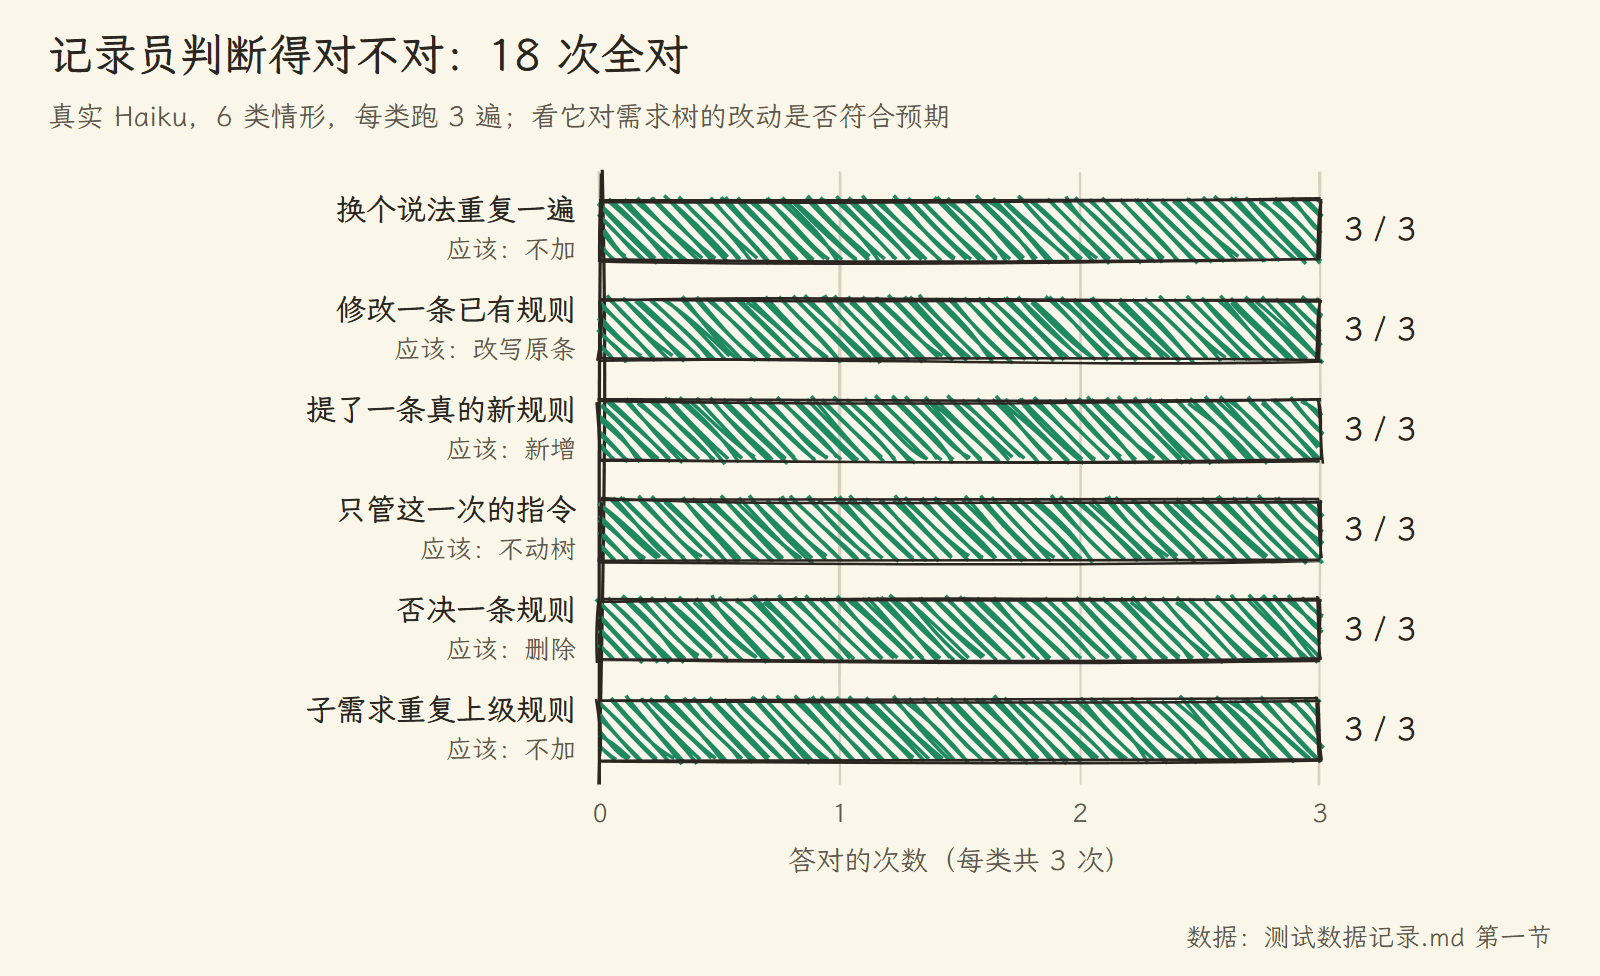
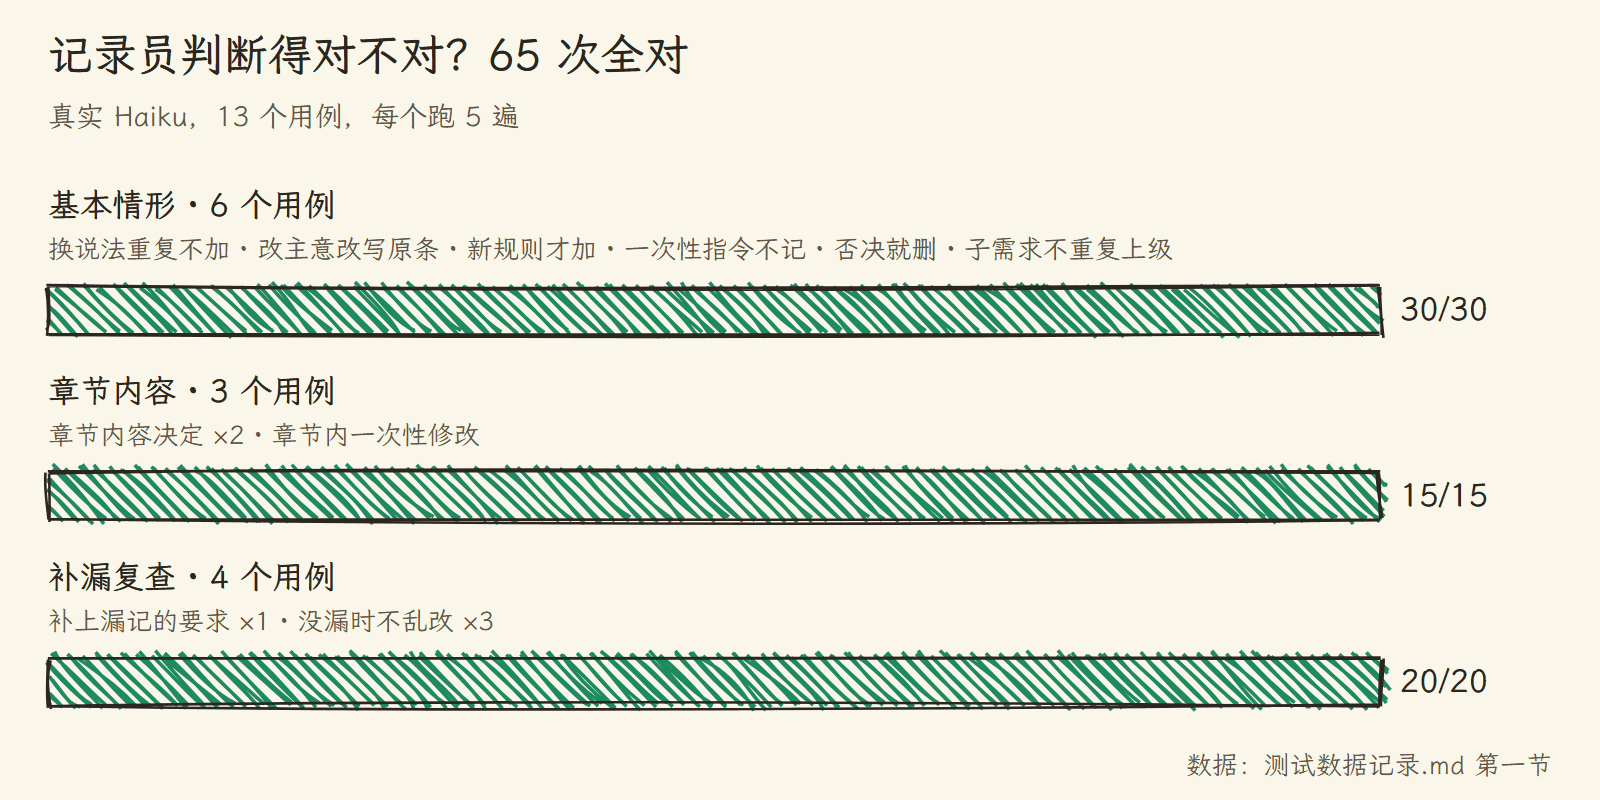
README 测试数据一节重写：每个实验回答一个问题，先讲结果说明什么；加入真实数据实验（搬进需求树前后、回放真实对话）的图表

Changed region(s): [[0.0, 0.1875, 0.9375, 0.9062], [0.0312, 0.0312, 0.5938, 0.1562], [0.7188, 0.9375, 0.9688, 0.9688]]

diff --git a/README.en.md b/README.en.md
@@ -109,7 +109,7 @@ Everything revolves around one file. While you chat, a background recorder write
 
 ![The recorder notes long-term requirements in the background](docs/images/en/recorder.png)
 
-**Why not inject rules with hooks?** Early versions did. Claude Code's native rules turned out to be more reliable: they work inside subagents and after compaction, and rules created or edited mid-session are pushed to the assistant. So the hooks now only do what the native mechanism can't — track which requirement is being edited and start the recorder. They add nothing to the assistant's context.
+**Why not inject rules with hooks?** Early versions did. Claude Code's native rules turned out to be more reliable: they work inside subagents and after compaction, and rules created or edited mid-session are pushed to the assistant. So rules are left to the native mechanism, and the hooks only do what it can't — track which requirement is being edited and start the recorder. The one exception is discussion before any file is touched: when you ask "how should Chapter 3 work?", the assistant hasn't opened a file yet, so the hook adds the rules of the requirement you named, once per session.
 
 | Part | What it does |
 |---|---|
@@ -125,35 +125,59 @@ Everything revolves around one file. While you chat, a background recorder write
 | Feature | Status |
 |---|---|
 | Rules load on demand: they enter the context when the AI reads or edits a matching file | ✅ |
-| Hooks add nothing to the conversation | ✅ |
+| Hooks add rules only when you name a requirement whose files the assistant hasn't touched yet; otherwise nothing | ✅ |
 | Old rules are rewritten instead of duplicated, so the tree doesn't keep growing | ✅ |
 | The recorder uses the inexpensive Haiku model in the background; short replies skip it | ✅ |
 | Context meter: which rules each session loaded, how many characters each, resident vs on demand | ✅ |
 | Split CLAUDE.md: move requirement-specific content into the tree so it loads on demand | Planned |
 | Cross-file duplicate and contradiction check between the tree, CLAUDE.md and project docs | Planned (experiment script exists) |
 
-![Characters always in context](docs/images/en/chart-context.png)
+In practice, the AI reads 30–50% fewer characters of rules to work on one chapter of a course — see "How much better after moving them into a tree?" below.
 
 ## Test data
 
-Raw data and experiment conditions are in [`测试数据记录.md`](测试数据记录.md) (the test log, in Chinese).
+Each experiment below answers one question. Raw data and experiment conditions are in [`测试数据记录.md`](测试数据记录.md) (the test log, in Chinese).
 
-**Does the recorder judge correctly?** Six kinds of situations, three runs each, with the real Haiku model: a reworded duplicate is not added, a change of mind rewrites the original rule, a genuinely new rule is added, a one-off instruction is ignored, a rejected rule is deleted, and a child repeating its parent is not added. 18 out of 18 correct.
+### Does the recorder get things wrong or add duplicates?
+
+The recorder mostly meets six situations: you restate an old rule in new words; you change your mind; you give a new rule; you ask for a one-off edit; you reject a rule; you repeat a parent's rule inside a child requirement. Two easily confused ones were added later: "open Chapter 1 with the cholera story" is a decision Chapter 1 should keep following, while "tighten that paragraph in Chapter 1" is done once it's done. Run five times each with the real Haiku model, the recorder handled every case correctly: no duplicates, changes of mind rewrite the original rule, one-off edits are not recorded.
 
 ![Recorder accuracy](docs/images/en/chart-recorder.png)
 
-**With or without ReqTree — do rules get messier?** A simulated 32-turn conversation in which the user gradually states 13 long-term requirements, changes their mind, cancels some and adds exceptions. Three arms: the assistant maintaining its own rule document (plain prompt, careful prompt) and the ReqTree recorder. When the assistant kept its own document, a cancelled rule turned into a new "don't …" entry that stayed behind, and some rules landed in the wrong scope; ReqTree had neither problem. All three arms missed some requirements.
+### Compared with letting the AI maintain its own rule document?
+
+A simulated 32-turn conversation: the user gradually states 13 long-term requirements, changes their mind, cancels some, adds exceptions. One arm lets the AI keep its own rule document; the other uses ReqTree. When the AI keeps the document, "drop the reflection questions" often becomes a new line "no reflection questions" while the old rule stays, and an exception like "only 3 exercises in Chapter 2" sometimes turns into a global rule. ReqTree deletes the cancelled rule and files the exception under Chapter 2. At first ReqTree also missed decisions about a single chapter's content; after the recorder's criteria were fixed, it captured almost all 13 requirements.
 
 ![Rule problems after a simulated conversation](docs/images/en/chart-confusion.png)
 
-**How messy is a real project?** In a real course project's 21 rule documents, most problems sit **across files**: the same rule copied in several places, updated in one and stale in the others. With ReqTree each rule has exactly one place, which removes this class of problem at the root.
+### How messy are real rule documents?
+
+The author audited a course project after a few months of work. Across 21 rule documents the problems sit mostly **across files**: the same rule copied in several places, updated in one and stale in the others; one file says "run one agent at a time", another says "two or three chapters can run in parallel".
 
 ![Audit of real rule documents](docs/images/en/chart-audit.png)
+
+### How much better after moving them into a tree?
+
+The rules from those 21 documents were moved into one requirement tree and audited again with the same checker. Duplicates and outdated rules dropped sharply, because each rule now has one place and old wording was replaced by the latest during the move. Contradictions did not drop: where a course rule conflicts with a global one, the original text never said "this course is an exception", so the move couldn't turn it into an override. That call still needs a person.
+
+![Before and after moving the rules into a tree](docs/images/en/chart-migrate.png)
+
+The context savings are easier to see. Before, every session carried CLAUDE.md and the memory, and working on a course meant reading that course's whole rule document. With the tree, only the global rules are always loaded; a course's rules arrive when its files are touched. To work on one chapter of any course, the AI reads 30–50% fewer characters of rules.
+
+![How much the AI reads to work on one chapter](docs/images/en/chart-chapter.png)
+
+### Replaying real conversations
+
+436 messages the author actually typed across 12 sessions over several weeks were replayed in order. One arm let the AI record rules as it normally would, into CLAUDE.md, memory and course documents (seeing only some of them each time); the other used ReqTree. Both were checked against the same answer key.
+
+ReqTree missed fewer requirements, kept fewer overturned rules, and ended with a rule base a third the size. Its extra errors were of one kind: general preferences mentioned while working on one course, such as "reply in Chinese", got filed under that course, so other courses didn't get them. The recorder's criteria have since been adjusted for this.
+
+![The rule base after replaying real conversations](docs/images/en/chart-replay.png)
 
 ## Current limits
 
 - Works with Claude Code and OpenAI Codex. Codex has no path-scoped rules, so ReqTree uses an index in `AGENTS.md` plus hooks that deliver the right rules (see docs/codex.md).
-- The recorder sometimes misses things, especially decisions about a single chapter's content ("open Chapter 1 with this story"). You can add those by hand in the panel.
+- The recorder relies on a small model and occasionally files a rule in the wrong place. You can fix it in the panel, or undo it under "Recent changes".
 - Each turn costs one extra Haiku call, run in the background (about 6 seconds).
 - Developed on Windows; macOS and Linux are covered by CI.
 

diff --git a/README.md b/README.md
@@ -109,7 +109,7 @@ npx github:penstic123-code/Vibe-Friend init <你的项目目录> --tool codex # 
 
 ![记录员在后台记下长期要求](docs/images/recorder.png)
 
-**为什么不用 hook 往对话里塞规则。** 早期版本就是这么做的。后来发现 Claude Code 原生的规则机制更可靠：子 agent 里、上下文压缩以后都照样生效，会话中途新建或修改规则也会推给 AI。所以 hook 现在只做原生没有的事：记下 AI 在改哪个需求、启动记录员，不往 AI 的上下文里加一个字。
+**为什么不用 hook 往对话里塞规则。** 早期版本就是这么做的。后来发现 Claude Code 原生的规则机制更可靠：子 agent 里、上下文压缩以后都照样生效，会话中途新建或修改规则也会推给 AI。所以规则主要交给原生机制，hook 只做原生没有的事：记下 AI 在改哪个需求、启动记录员。唯一的例外是动手之前的讨论：你说「第 3 章怎么设计」时 AI 还没打开文件，原生规则还没加载，hook 就把你点名的那个需求的规则补上，每个会话只补一次。
 
 | 部件 | 做什么 |
 |---|---|
@@ -125,35 +125,59 @@ npx github:penstic123-code/Vibe-Friend init <你的项目目录> --tool codex # 
 | 功能 | 状态 |
 |---|---|
 | 规则按需加载：AI 读或改到对应文件时，规则才进入上下文 | ✅ |
-| hook 不往对话里加内容 | ✅ |
+| hook 只在你点名某个需求、而 AI 还没碰它的文件时补一次规则，别的时候不往对话里加内容 | ✅ |
 | 改写旧规则而不是新增，树不会越堆越长 | ✅ |
 | 记录员用便宜的 Haiku，在后台跑；短回复不调用模型 | ✅ |
 | 上下文用量表：每个会话加载了哪些规则、各多少字、哪些常驻哪些按需 | ✅ |
 | 从 CLAUDE.md 拆分：把只属于某个需求的内容搬进树里按需加载 | 计划中 |
 | 跨文件查重查矛盾：需求树和 CLAUDE.md、项目文档之间 | 计划中（已有实验脚本） |
 
-![常驻上下文字数](docs/images/chart-context.png)
+实测下来，做一门课的一章，AI 要读的规则少了三到五成，见下面的「搬进需求树以后，会好多少」。
 
 ## 测试数据
 
-原始数据和实验条件都在 [`测试数据记录.md`](测试数据记录.md)。
+下面每个实验回答一个问题。原始数据和实验条件都在 [`测试数据记录.md`](测试数据记录.md)。
 
-**记录员判断得准不准。** 6 类情况各跑 3 遍，用真实的 Haiku：换说法重复的不加、改主意的改写原条、真正的新规则才加、一次性指令不记、否决的删掉、子需求重复上级的不加。18 次全对。
+### 记录员会不会记错、记重复？
+
+记录员最常碰到六种情况：你换个说法重复一条旧规则；你改了主意；你提了一条新规则；你只是让 AI 改一处；你否决了一条规则；你在子需求里又说了一遍上级的规则。后来又加了两种容易混的：「第 1 章开头用霍乱的故事」是这一章长期要遵守的决定，「把第 1 章那段压缩一下」是改完就结束的一次性指令。用真实的 Haiku 把这些情况各跑 5 遍，记录员每次都做对了：重复的不加，改主意的改写原条，一次性的不记。
 
 ![记录员判断准确率](docs/images/chart-recorder.png)
 
-**装与不装，规则会不会更乱。** 模拟 32 轮对话，用户陆续提 13 条长期要求，中途改主意、取消、加例外。三组对比：AI 自己维护规则文档（普通提示词、认真提示词）和需求树的记录员。AI 自己记时，取消的规则会变成一条新的"不要……"留在文档里，有的规则挂到了错误的范围；需求树没有这两种问题。三组都有漏记。
+### 和让 AI 自己维护规则文档相比呢？
+
+模拟一段 32 轮的对话：用户陆续提 13 条长期要求，中途改主意、取消、加例外。一组让 AI 自己维护一份规则文档，一组交给需求树。AI 自己记的时候，你说「思考题取消吧」，它往往再写一条「不设思考题」，旧的那条还留着；「第 2 章只出 3 道题」这种例外，有时被它写成了全局规则。需求树直接删掉被取消的那条，例外挂在第 2 章下面。最初需求树也会漏记某一章的内容决定，改了记录员的判断标准后，13 条要求基本都记下了。
 
 ![模拟对话后的规则毛病](docs/images/chart-confusion.png)
 
-**真实项目里有多乱。** 体检一个真实课程项目的 21 份规则文档，问题集中在**跨文件**这一层：同一条规则抄在好几处，改了一处，别处还是旧的。需求树让每条规则只有一个位置，从根上避开这类问题。
+### 真实项目里的规则文档有多乱？
+
+作者体检了自己做了几个月的课程项目：21 份规则文档里，问题集中在**跨文件**这一层。同一条规则抄在好几处，改了一处，别处还是旧的；有的地方写「一次只开一个 agent」，另一处写「可以两三章并行」。
 
 ![真实规则文档体检](docs/images/chart-audit.png)
+
+### 搬进需求树以后，会好多少？
+
+把这 21 份文档里的规则搬进一棵需求树，再用同一个体检程序查一遍。重复和过时少了一大截，因为同一条规则只剩一个位置，旧说法在搬家时就被新说法替掉了。矛盾没有变少：课程规则和全局规则冲突时，原文没写明「这门课例外」，搬家也就没法把它变成覆盖。这一步还得人来定。
+
+![规则搬进需求树前后](docs/images/chart-migrate.png)
+
+省下的上下文更直观。原来每个会话都要带上 CLAUDE.md 和记忆，做某门课时还要整份读那门课的规则文档；搬进需求树以后，常驻的只剩全局规则，课程规则在改到那门课的文件时才加载。做任意一门课的一章，AI 要读的规则少了三到五成。
+
+![做某门课的一章，AI 要读多少字](docs/images/chart-chapter.png)
+
+### 拿真实对话回放一遍呢？
+
+把作者过去几周 12 个会话里亲手打的 436 条消息按时间顺序回放：一组让 AI 像平时一样自己记进 CLAUDE.md、记忆和课程文档（每次只看得到其中几份），一组交给需求树。最后拿同一份标准答案对照。
+
+需求树漏得少，被推翻的旧规则留得少，整个规则库只有另一组的三分之一大。它多出来的错误集中在一类：你在做某门课时顺口说的通用要求，比如「交流用中文」，被记到了那门课下面，做别的课时就带不上。记录员已经针对这一点改了判断标准。
+
+![回放真实对话后的规则库](docs/images/chart-replay.png)
 
 ## 目前的限制
 
 - 支持 Claude Code 和 OpenAI Codex。Codex 没有按文件加载规则的机制，改用 `AGENTS.md` 里的索引加 hook 补送，见 [docs/codex.md](docs/codex.md)。
-- 记录员会漏记，尤其是"第 1 章开头用某个故事"这类只关于一章的内容决定。漏了可以在面板上手动加。
+- 记录员靠小模型判断，偶尔会把规则挂错位置。面板上能直接改，「最近改动」里能撤销。
 - 每轮对话多一次 Haiku 调用，在后台跑，约 6 秒。
 - 在 Windows 上开发；Mac 和 Linux 由 CI 跑测试。
 

diff --git a/测试数据记录.md b/测试数据记录.md
@@ -121,6 +121,7 @@
 | 2026-10-22 | 无上下文 agent 只读审查 | 12 个 bug（6 个用脚本复现过）、6 处不一致、十几处重复和死代码。详见 `_review/审查报告-2026-10-22.md` |
 | 2026-10-22 | 第二轮无上下文只读审查（去掉确认模式后） | 5 个问题（全部复现）：🗑 开头的正常规则会被删、旧改动撤销不了、锁残留时静默失败、升级后说明不刷新、死代码；另有文档与代码不一致 5 处。已全部修复 |
 | 2026-10-22 | Mac/Linux 兼容审查（只读） | 10 个问题，2 个高：界面测试只认 Windows 的 Edge（在 CI 上会全部跳过却显示通过）、Node 20 没有 WebSocket |
+| 2026-10-22 | 第三轮无上下文只读审查（全部代码） | 2 个高：后台通知和子 agent 回报被当成用户原话（点名补规则误注入、记录员把讨论工具本身的话记进 Vibelearning 根节点 5 条，已撤销）；`settings.local.json` 解析失败时 init 会清空用户权限。5 个中：点名匹配歧义、AGENTS.md 标记误认、规则文本带换行能凭空造节点、vsix 打包了私人交接文档、文档与代码不一致、英文界面残留中文。6 个低。XSS 29 处全部转义，隐私检查通过 |
 
 ## 八、待做的测试
 
@@ -183,3 +184,42 @@
 - 最终版 5 遍里补漏跑了 20 次，一条没加：改善全部来自提示词。补漏在构造的用例里 5/5 补上了漏记，在 3 个「不该动」的用例里 5/5 没乱改。
 - 费用约 $6.3（含第一版补漏出错后补跑的两轮）。
 
+
+## 十、真实数据实验（Vibelearning，2026-10-22）
+
+脚本 `test/eval-migrate.js`（实验 A）、`test/eval-replay.js`（实验 B）。只读用户文件；用户原话只留在本机 scratchpad，这里只有统计。两个实验合计 936 次调用，$14.46。
+
+**实验 A：把真实规则文档搬进一棵需求树，前后对比。** 21 个文件（CLAUDE.md、6 份课程文档、_BRIEF、memory）由 Sonnet 搬成一棵树：合并重复、按最新说法解矛盾、删过时。搬前搬后用同一个体检程序（同提示词、同模型）。
+
+| | 体检抽出的规则 | 重复 | 矛盾 | 过时 | 合计 |
+|---|---|---|---|---|---|
+| 搬家前 | 991 | 188 | 31 | 18 | 237 |
+| 搬家后 | 923 | 129 | 31 | 4 | 164 |
+
+| 上下文（字，用真实 compile.js 编译） | 搬家前 | 搬家后 |
+|---|---|---|
+| 每个会话常驻 | 12,729 | 7,280 |
+| 做 AI 课的一章 | 23,487（另读 _BRIEF 时 30,566） | 16,309 |
+| 做数据科学课的一章 | 16,159 | 10,077 |
+| 做人类学课的一章 | 27,181 | 16,515 |
+| 做十二门徒课的一章 | 18,591 | 9,070 |
+| 做教育课的一章 | 21,525 | 12,035 |
+| 做游戏设计课的一章 | 16,078 | 9,012 |
+
+- 矛盾没降：9 处是课程规则和全局规则冲突却没写成覆盖（没带 `[键]`）；22 处是原文档内部本来就有的冲突，搬家时没解开。
+- 搬家由模型一次完成，64 条「解决」决定还没人工复核（例：把用户写的互动上限 5 按算术改成了 4）。字数减少里有一部分是删掉了历史经过和叙事。
+- 顺带发现两个 bug：`> 文件：` 行按逗号拆分，`{ch18,ch19}-*.html` 这种花括号写法被拆坏；自动编号和手写编号会撞号。
+
+**实验 B：回放用户真实的对话。** 12 个会话、436 条用户亲手打的消息，Haiku 先挑出 227 条含要求或决定的；Sonnet 读完全部 227 条给出标准答案（现行规则 88 条）。按时间顺序回放，两组各 2 遍：
+- 不装：每轮 AI（Haiku）只看到 CLAUDE.md、记忆索引和本课文档，自己决定改哪个文件、要不要新建记忆。
+- 装需求树：真实的记录员代码。
+
+| 组 | 规则库字数 | 遗漏（/88） | 记错 | 过时仍在 | 常驻字数 |
+|---|---|---|---|---|---|
+| 不装（平均） | 28,575 | 17.5 | 9 | 9 | 约 3,150 |
+| 需求树（平均） | 8,597 | 12.5 | 13.5 | 4 | 约 510 |
+
+- 需求树漏得少、过时留得少、规则库只有三分之一大，常驻上下文少一个数量级。
+- 记错更多，主要是一类错：用户在做某门课时顺口说的通用要求（写作、检查、和 AI 怎么沟通），被记到了那门课下面，做别的课时就带不上。15 条全局规则里有 9–12 条是这样。
+- 按每 100 条规则算，两组的重复率和矛盾率差不多（16.3 对 17.0、4.1 对 5.3）：需求树的问题少，主要是因为没有把同一条规则在多份文件里反复写。
+- 评审只跑了一次，评审本身的波动没测；两组都用 Haiku 扮演，不是真实的主模型。
